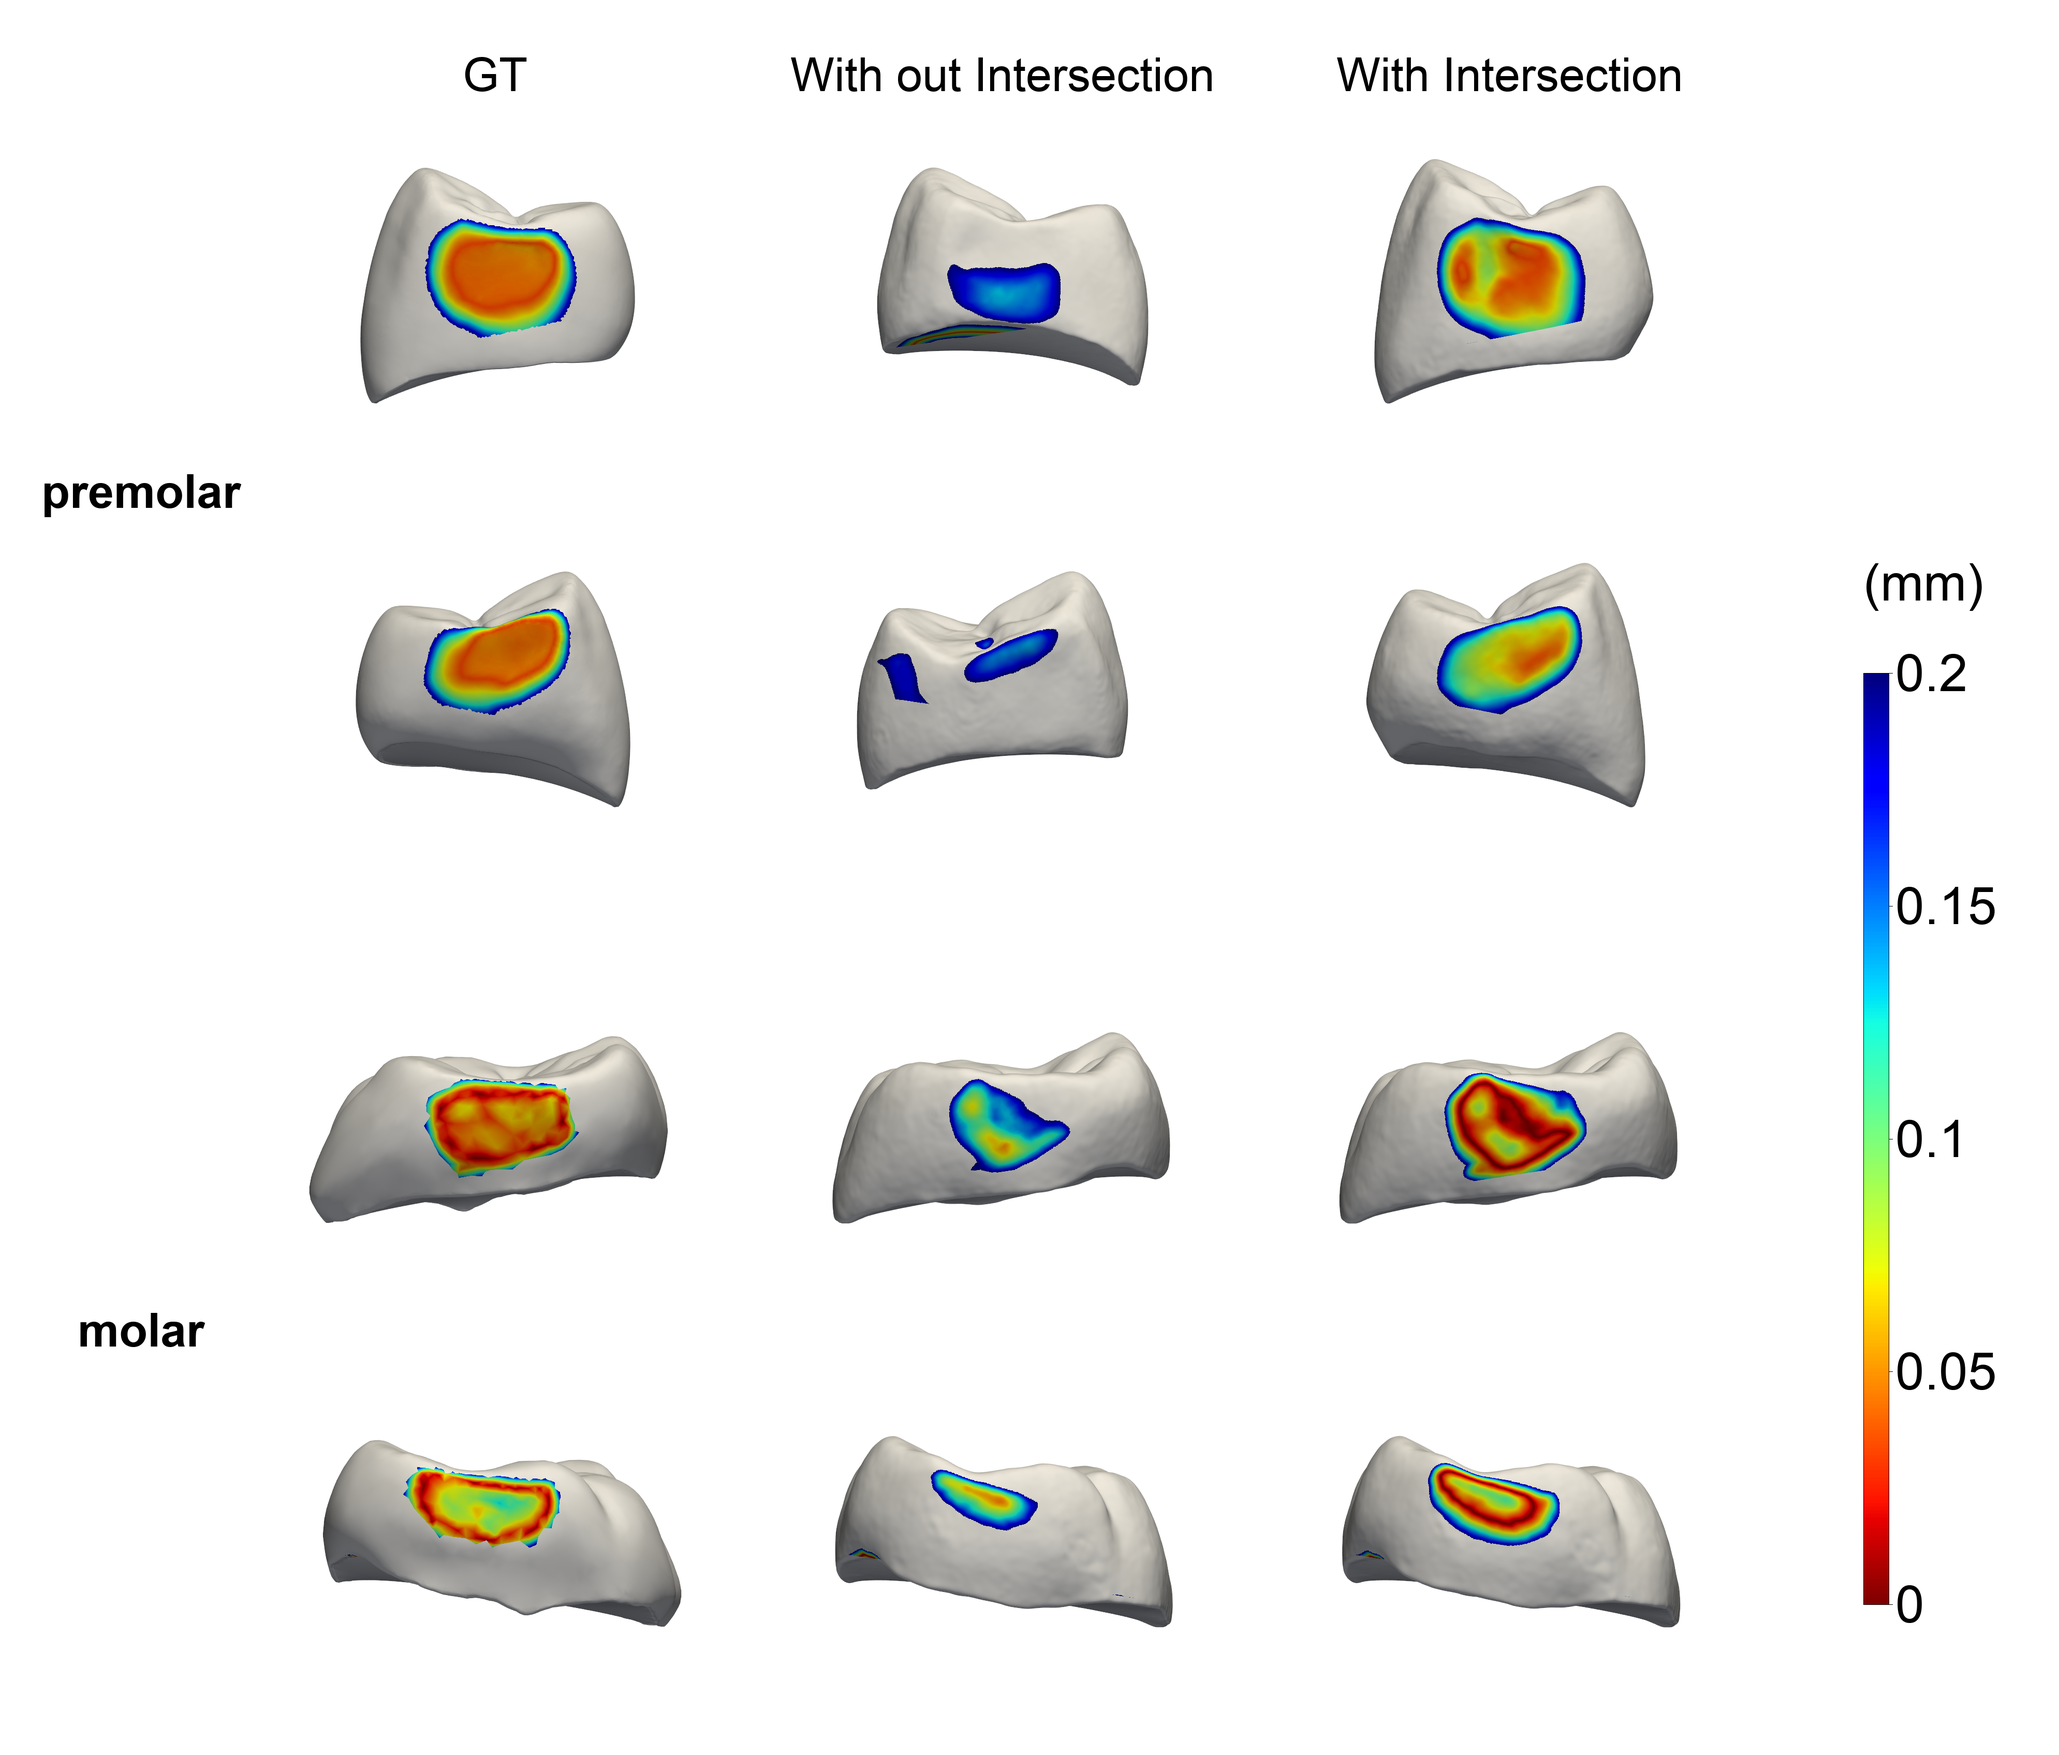
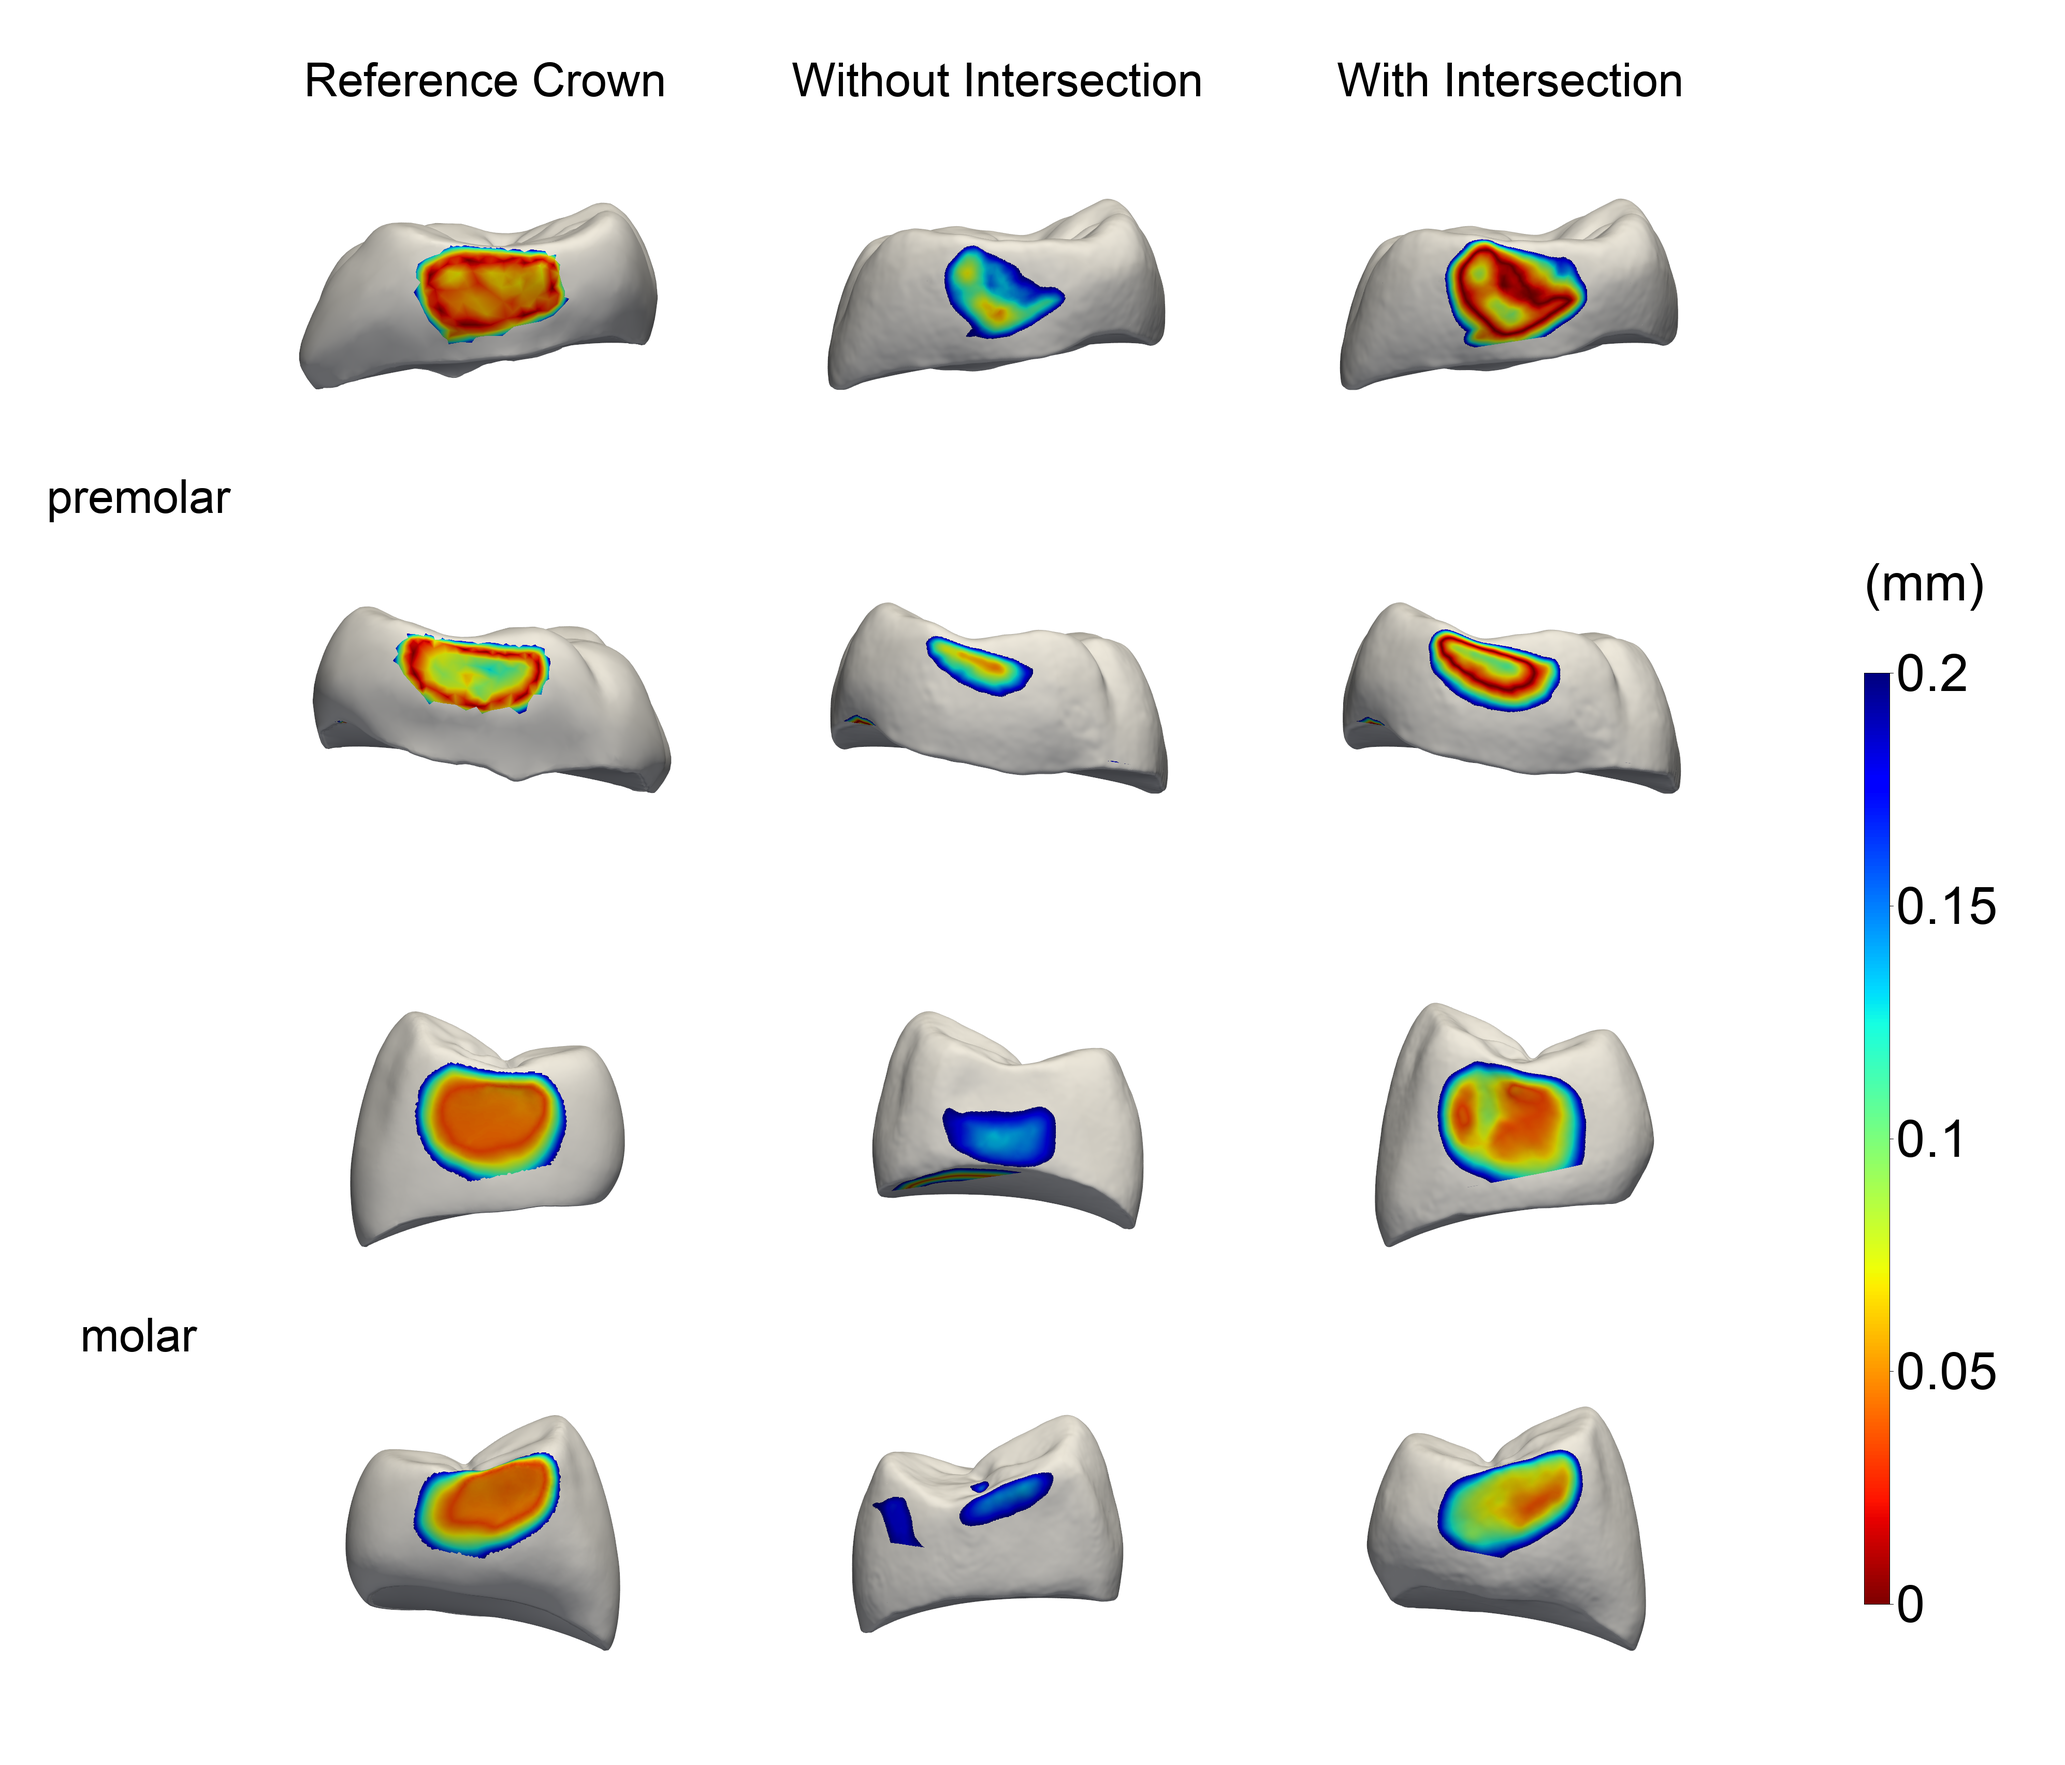
GT -> Reference Crown

diff --git a/figures/ablation_adjacent/step3_merge_imgs.py b/figures/ablation_adjacent/step3_merge_imgs.py
@@ -18,7 +18,7 @@ ROW_FILES = (
     ("gt_heatmap.png", "ablation_match_heatmap.png", "our_heatmap.png"),
     ("gt_heatmap2.png", "ablation_match_heatmap2.png", "our_heatmap2.png"),
 )
-COLUMN_LABELS = ("GT", "Without Intersection", "With Intersection")
+COLUMN_LABELS = ("Reference Crown", "Without Intersection", "With Intersection")
 BLOCK_LABELS = ("premolar", "molar")
 
 
@@ -42,7 +42,7 @@ def main() -> None:
     parser.add_argument("--folders", nargs="+", help="case folder names in display order")
     parser.add_argument("-o", "--output", type=Path, default=Path("merged_heatmaps.png"),
                         help="output filename; relative paths use the script directory")
-    parser.add_argument("--gap", type=int, default=80,
+    parser.add_argument("--gap", type=int, default=90,
                         help="column gap and outer margin in pixels (default: 80)")
     # 板块内两行间距，单位像素。
     parser.add_argument("--line_space", "--line-space", type=int, default=80,

diff --git a/figures/ablation_occlusion/step3_merge_imgs.py b/figures/ablation_occlusion/step3_merge_imgs.py
@@ -24,7 +24,7 @@ def main() -> None:
     # 上方文字和图片的距离
     parser.add_argument("--header-gap", type=int, default=80, help="distance from the bottom of column label text to images (pixels)")
     parser.add_argument("--font-size", type=int, default=80, help="column label font size")
-    parser.add_argument("--labels", nargs=3, default=("GT", "Without Intersection", "With Intersection"), metavar=("GT", "WITHOUT", "WITH"))
+    parser.add_argument("--labels", nargs=3, default=("Reference Crown", "Without Intersection", "With Intersection"), metavar=("GT", "WITHOUT", "WITH"))
     parser.add_argument("--background", default="white")
     parser.add_argument("--clim", nargs="+", type=float, default=[0.0, 0.2], help="colorbar limits: MAX or MIN MAX")
     parser.add_argument("--colorbar-font-size", type=int, default=60)
